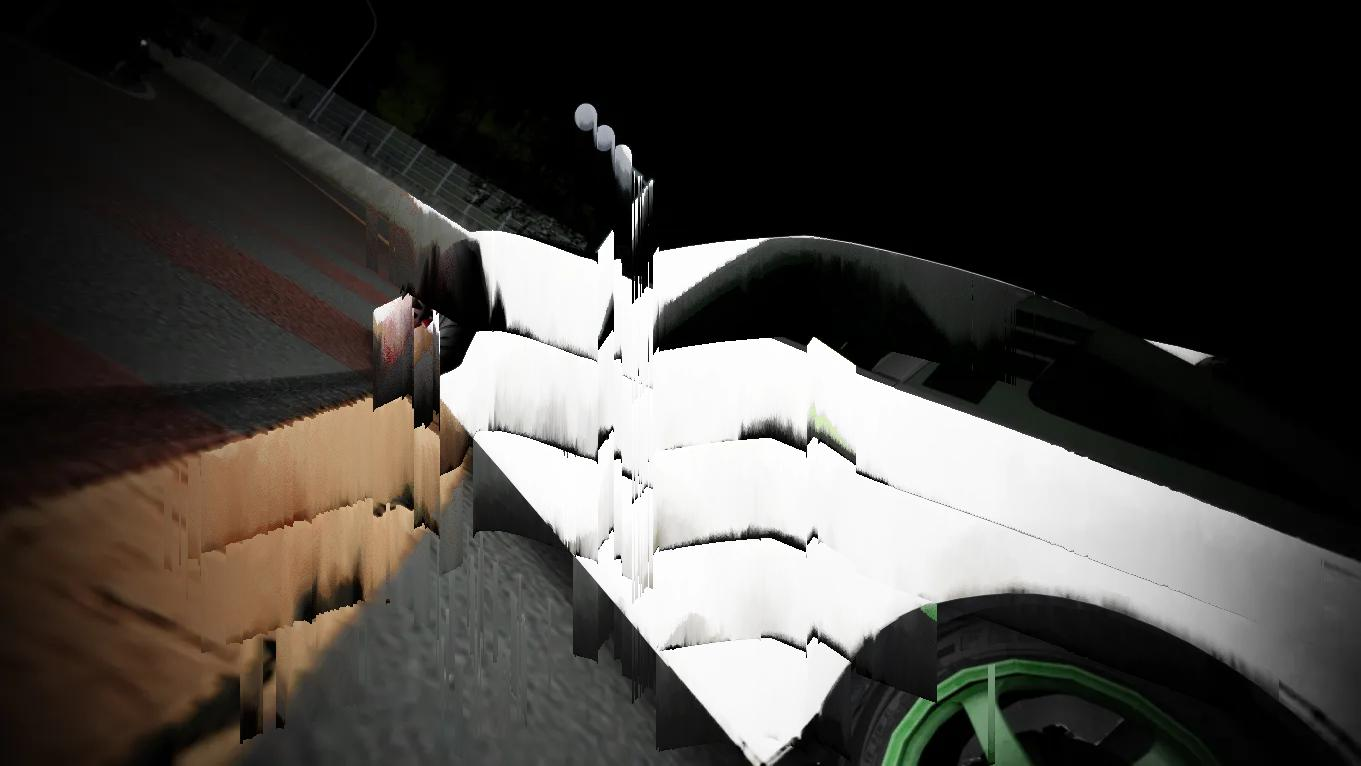
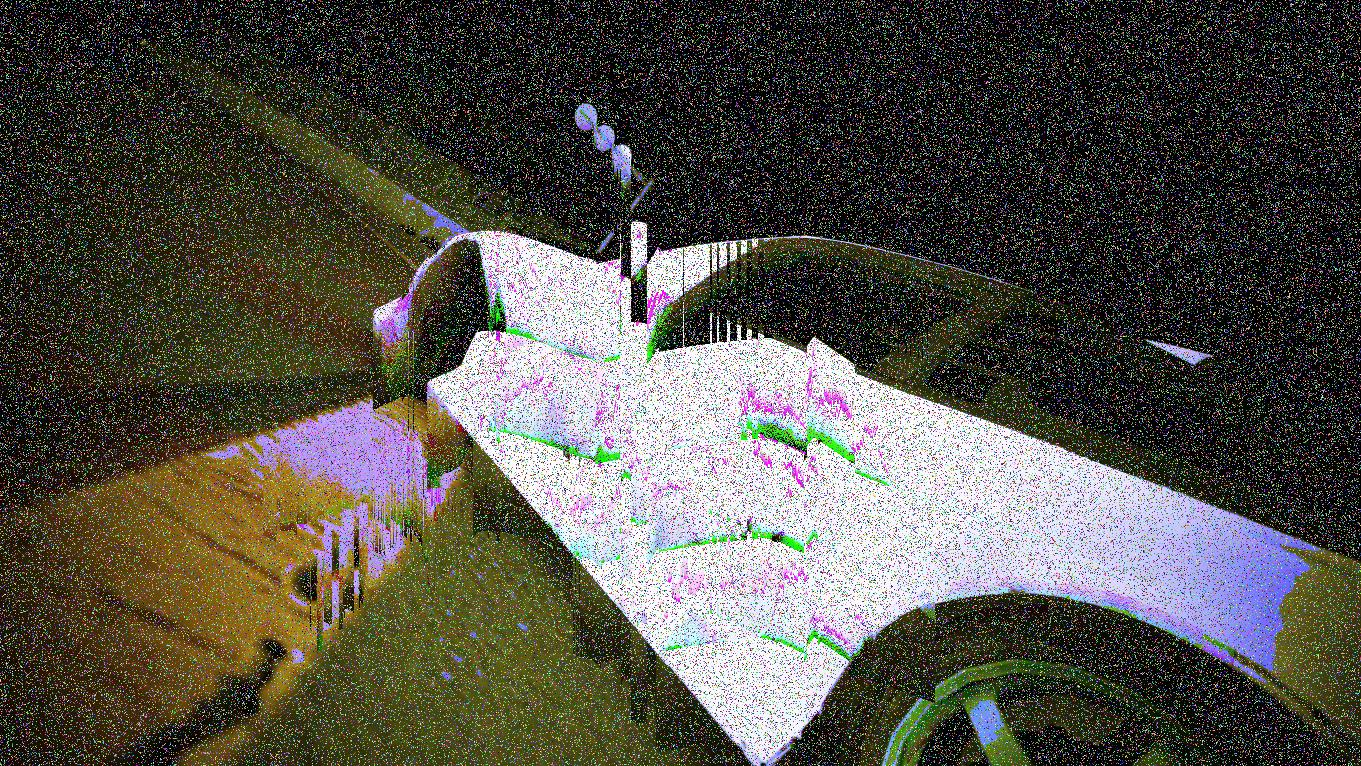
cleaned code

diff --git a/main.py b/main.py
@@ -68,53 +68,54 @@ def chomaticAbberation(brightness, pixels, img, rgb_index):
 
 
 def binarize(img, threshold):
-    output_image=img.convert("L")
-    for x in range(output_image.width):
-        for y in range(output_image.height):
-            if output_image.getpixel((x,y))< threshold:
-                output_image.putpixel( (x,y), 0 )
+    img=img.convert("L")
+    for x in range(img.width):
+        for y in range(img.height):
+            if img.getpixel((x,y))< threshold:
+                img.putpixel( (x,y), 0 )
             else:
-                output_image.putpixel( (x,y), 255 )
-    return output_image
+                img.putpixel( (x,y), 255 )
+    return img
+
 
 def exagerateColor(img, threshold, rgb, factor):
-    output_image=img.convert("RGB")
-    for x in range(output_image.width):
-            for y in range(output_image.height):
-                pixel = output_image.getpixel((x,y))
+    img=img.convert("RGB")
+    for x in range(img.width):
+            for y in range(img.height):
+                pixel = img.getpixel((x,y))
                 
                 if pixel[rgb]< threshold:
                     li = list(pixel) 
                     li[rgb] //= factor
                     pixel = tuple(li)
-                    output_image.putpixel( (x,y), pixel )
+                    img.putpixel( (x,y), pixel )
                 if pixel[rgb]> threshold:
                     li = list(pixel) 
                     li[rgb] *= factor
                     pixel = tuple(li)
-                    output_image.putpixel( (x,y), pixel)
-    return output_image
+                    img.putpixel( (x,y), pixel)
+    return img
 
 
-def randomPixel(img, probability):
-    output_image=img.convert("RGB")
-    for x in range(output_image.width):
-            for y in range(output_image.height):
+def noiseGenerator(img, probability):
+    img=img.convert("RGB")
+    for x in range(img.width):
+            for y in range(img.height):
                 
                 threshold = random.randint(0, 100)
                 r = random.randint(0, 255)
                 g = random.randint(0, 255)
                 b = random.randint(0, 255)
-                if threshold >= probability:
-                    output_image.putpixel( (x,y), (r,g,b))
-    return output_image
+                if threshold <= probability:
+                    img.putpixel( (x,y), (r,g,b))
+    return img
 
 
+img = chomaticAbberation(150, 50, img, 1)
+img = exagerateColor(img, 100, 2, 5)
+img = pixelSortBrightness(200, 100, img)
 #img = binarize(img, 100)
-
-img = pixelSortBrightness(100, 100, img)
-#img = randomPixel(img, 99)
-#img = exagerateColor(img, 50, 2, 10)
+#img = noiseGenerator(img, 20)
 
 #img = pixelSortBrightness(100, 50, img, 1)
 
